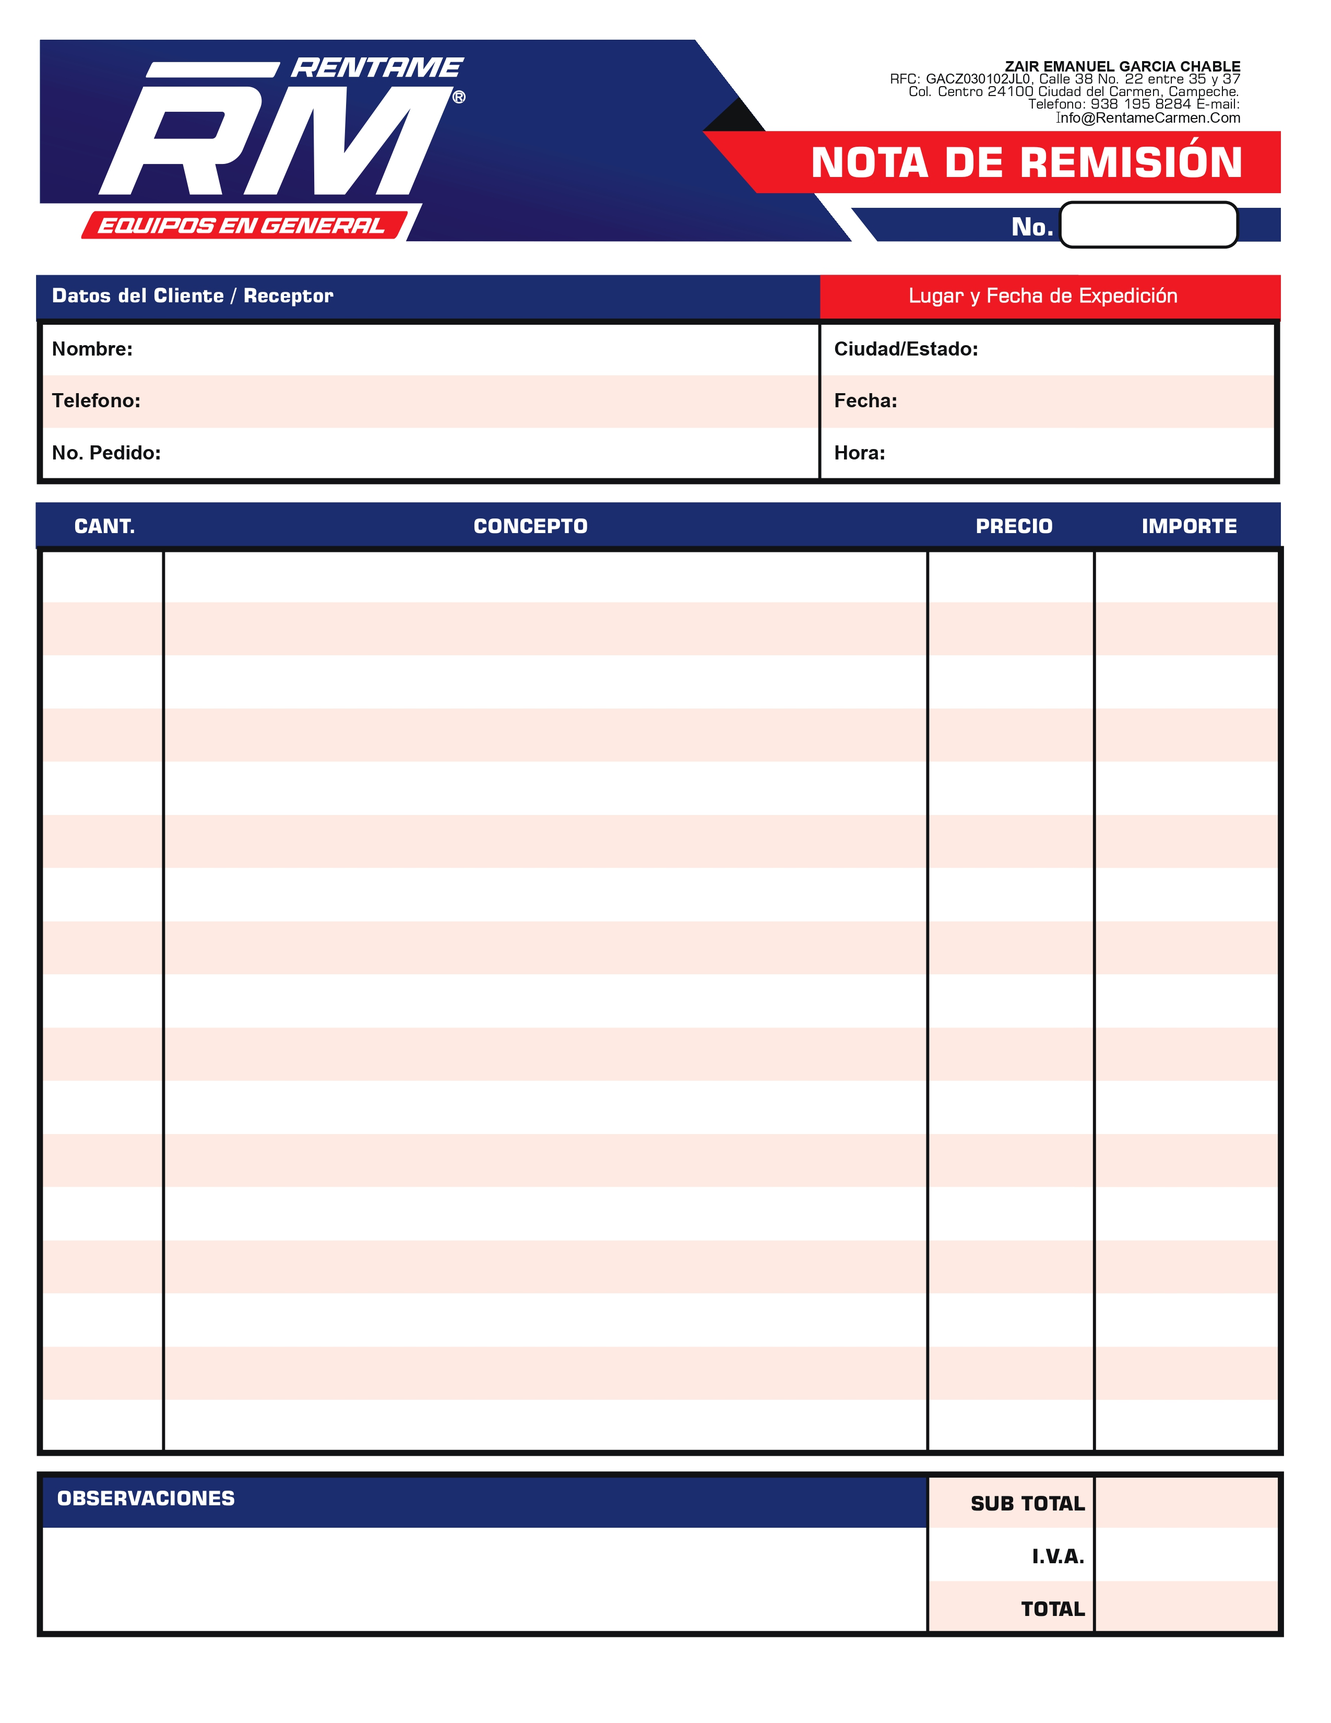
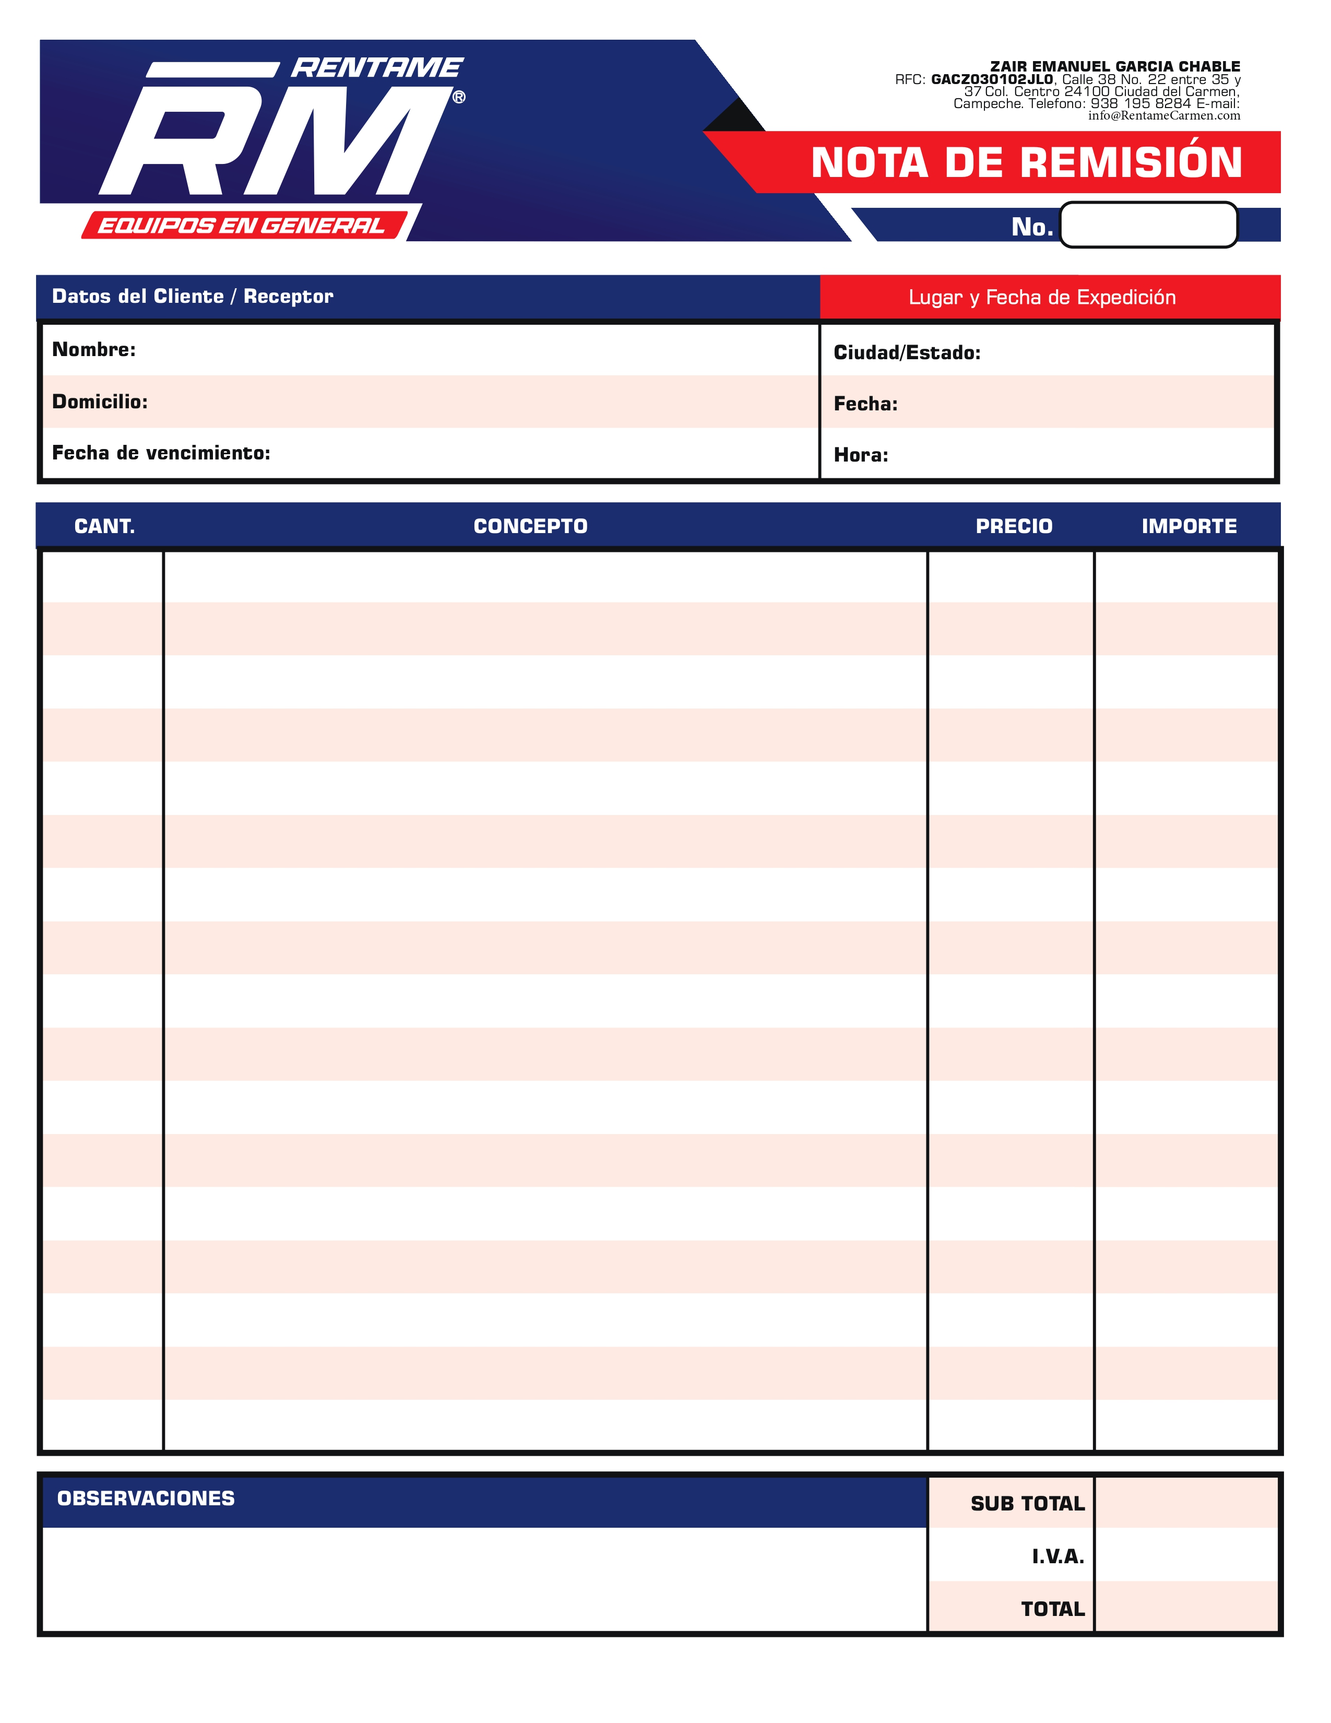
sad

diff --git a/src/pages/rentas/create_rentas.jsx b/src/pages/rentas/create_rentas.jsx
@@ -28,7 +28,8 @@ const [selectedProducts, setSelectedProducts] = useState([]); //se almacenan los
 const [searchTerm, setSearchTerm] = useState(''); //Se almacenan los terminos de busqueda
 const [loading, setLoading] = useState(true); //estado para spinner de carga
 const [files, setFiles]=useState([])
-const [identificador, setIdentificador]=useState()
+const [folio, setFolio]=useState()
+console.log(folio);
 const [hora_renta, setHora_renta]=useState()
 const [hora_vencimiento, setHora_vencimiento]=useState()
 const [fecha_renta, setFecha_renta]=useState(new Date())
@@ -214,21 +215,7 @@ const handleRemoveImage = (id, index) => {
   setFiles((prevFiles) => prevFiles.filter((_, idx) => idx !== index));
 };
 
-function generarIdentificador() {
-  // Genera una cadena aleatoria de 11 números entre 1 y 9
-  let identificador = '';
-  for (let i = 0; i < 11; i++) {
-    identificador += Math.floor(Math.random() * 9) + 1; // Genera números entre 1 y 9
-  }
 
-  // Configura el identificador con el prefijo "R-"
-  const identificadorCompleto = `R-${identificador}`;
-  setIdentificador(identificadorCompleto);
-}
-
-useEffect(() => {
-generarIdentificador()
-}, []);
 
 
 async function create_clientes() {
@@ -260,6 +247,24 @@ async function create_clientes() {
     setInfo_registro('error')
   }
 }
+async function obtenerNuevoFolio() {
+  try {
+    
+    setFolio(nuevoFolio);
+    } catch (error) {
+    console.log(error);
+  }
+}
+async function folioactual() {
+  
+  try {
+    
+   await obtenerNuevoFolio();
+
+  } catch (error) {
+    console.log(error);
+  }
+}
 
 //FUNCION PARA CREAR UNA RENTA
 async function generar_rentas() {
@@ -270,10 +275,15 @@ async function generar_rentas() {
     }
   });
 
-  if (!cliente_Selected || !localStorage.getItem('usuario') || !localStorage.getItem('nombre')) {
+  if (!cliente_Selected || !localStorage.getItem('usuario') || !localStorage.getItem('nombre') || !hora_renta || !hora_vencimiento) {
     return notyf.error('Datos incompletos, llene todos los campos excepto los que dicen opcional.');
   }
-
+  const response = await axios.get(`https://backrecordatoriorenta-production.up.railway.app/api/rentas/`);
+    const permisosData = response.data.response
+    const ultimoPermiso = permisosData[permisosData.length - 1];
+    const ultimoFolio = ultimoPermiso.folio;
+    const numeroUltimoFolio = parseInt(ultimoFolio);
+    const nuevoFolio = (numeroUltimoFolio + 1).toString().padStart(7, '0');
   // Subida de imágenes
   let fotosEstadoInicial = [];
   const selectedFiles = files; // Obtenemos todos los archivos seleccionados
@@ -282,6 +292,7 @@ async function generar_rentas() {
     const file = selectedFiles[i].file;
     
     try {
+      
       // Subir cada imagen y obtener la URL de Firebase
       const fotoURL = await uploadFoto(file);  // Asumiendo que uploadFoto devuelve la URL accesible
       fotosEstadoInicial.push(fotoURL);  // Guardar la URL en el array
@@ -296,13 +307,12 @@ async function generar_rentas() {
       nombre: product.nombre, // Nombre del producto
       cantidad: product.cantidad,
       codigo: product.codigo,
-      precio_unitario: product.precio, // Precio por unidad
-      precio_total_cantidad: (product.precio * product.cantidad).toFixed(2), // Precio total según cantidad
+      precio_unitario: product.precio.toLocaleString("en-US", { minimumFractionDigits: 2, maximumFractionDigits: 2 }), // Precio por unidad
       _id: product._id
     })),
     importe_total: selectedProducts
-      .reduce((total, product) => (total + product.precio * product.cantidad) * dias_contados, 0)
-      .toFixed(2), // Importe total de todos los productos seleccionados
+    .reduce((total, product) => total + (product.precio * product.cantidad * dias_contados), 0) // Agrega 0 como valor inicial
+    .toLocaleString("en-US", { minimumFractionDigits: 2, maximumFractionDigits: 2 }), // Importe total de todos los productos seleccionados
     fotos_estado_inicial: fotosEstadoInicial, // Las URLs de las fotos subidas
     usuario_retandor: localStorage.getItem('usuario'), // Usuario que está realizando la renta
     nombre_encargado:localStorage.getItem('nombre'),
@@ -311,10 +321,11 @@ async function generar_rentas() {
     hora_vencimiento: hora_vencimiento,
     observacion_inicial: detalle,
     cliente:cliente_Selected,
-    identificador: identificador,
+    folio: nuevoFolio,
     fecha_vencimiento: vencimientoFormateado,
     detalles_maquinaria: selectedProducts?.map((product) => product.descripcion || ''),
-    direccion:direccion
+    direccion:direccion,
+    dias_contados:dias_contados
   };
 
   try {
@@ -333,7 +344,7 @@ async function generar_rentas() {
     Swal.fire({
       icon: 'success',
       title: 'Renta generada',
-      text: `El N° identificador para tu renta es ${identificador}, con este numero podrás identificar tus rentas en la sección historial de rentas.`,
+      text: `Para ver la renta generada ve a la seccion de historial de rentas.`,
       confirmButtonText: 'Aceptar',
       allowOutsideClick: false, // Evita que se cierre al hacer clic fuera
       allowEscapeKey: false, // Evita que se cierre al presionar la tecla Escape
@@ -350,7 +361,7 @@ async function generar_rentas() {
 return (
   <>
     <Navbar/>
-      <div className="w-full h-[90vh] flex">
+      <div className="w-full  lg:h-[90vh] flex">
         <div className="w-full flex lg:flex-row flex-col-reverse justify-center items-center bg-[#EBEBEB] relative h-full">
           <div className="lg:w-[50%] w-full  items-center py-[1rem] overflow-y-auto h-full bg-[white] flex flex-col px-[1rem] gap-4">
             <p className="text-[1.2rem] font-semibold">Pedido de renta en curso</p>
@@ -392,7 +403,9 @@ return (
             Importe total por {dias_contados} días: 
           </td>
           <td style={{ border: '1px solid #ccc', padding: '8px' }}>
-            ${selectedProducts.reduce((total, product) => (total + (product.precio * product.cantidad) * dias_contados), 0).toFixed(2)}
+          ${selectedProducts
+  .reduce((total, product) => total + (product.precio * product.cantidad * dias_contados), 0) // Agrega 0 como valor inicial
+  .toLocaleString("en-US", { minimumFractionDigits: 2, maximumFractionDigits: 2 })}
           </td>
         </tr>
                 )}
@@ -443,7 +456,7 @@ return (
           </div>
           <div class="mb-3">
             <label  for="exampleInputPassword1" class="form-label font-bold">Hora de la renta</label>
-            <input  placeholder='HORA:MINUTOS' type="text" class="form-control" id="exampleInputPassword1"/>
+            <input ref={input_hora_renta} onChange={captureHora_renta}  placeholder='HORA:MINUTOS' type="text" class="form-control" id="exampleInputPassword1"/>
          </div>
           <div class="mb-3 flex flex-col">
             <label  for="exampleInputPassword1" class="form-label font-bold">Fecha de vencimiento:</label>
@@ -451,7 +464,7 @@ return (
           </div>
           <div class="mb-3">
             <label  for="exampleInputPassword1" class="form-label font-bold">Hora de vencimiento</label>
-            <input  placeholder='HORA:MINUTOS' type="text" class="form-control" id="exampleInputPassword1"/>
+            <input ref={input_hora_vencimiento} onChange={captureHora_vencimiento} placeholder='HORA:MINUTOS' type="text" class="form-control" id="exampleInputPassword1"/>
          </div>
         <div class="mb-3">
           <label  for="exampleInputPassword1" class="form-label font-bold">Dirección de uso: (Donde ser usarán los equipos) *obligatorio</label>
@@ -509,7 +522,7 @@ return (
             </div>
             <div class="mb-3">
               <label  for="exampleInputPassword1" class="form-label font-bold">Hora de la renta</label>
-              <input  placeholder='HORA:MINUTOS' type="text" class="form-control" id="exampleInputPassword1"/>
+              <input ref={input_hora_renta} onChange={captureHora_renta}  placeholder='HORA:MINUTOS' type="text" class="form-control" id="exampleInputPassword1"/>
             </div>
             <div class="mb-3 flex flex-col">
               <label  for="exampleInputPassword1" class="form-label font-bold">Fecha de vencimiento:</label>
@@ -517,7 +530,7 @@ return (
             </div>
             <div class="mb-3">
               <label  for="exampleInputPassword1" class="form-label font-bold">Hora de vencimiento</label>
-              <input  placeholder='HORA:MINUTOS' type="text" class="form-control" id="exampleInputPassword1"/>
+              <input ref={input_hora_vencimiento} onChange={captureHora_vencimiento} placeholder='HORA:MINUTOS' type="text" class="form-control" id="exampleInputPassword1"/>
             </div>
             <div class="mb-3">
               <label  for="exampleInputPassword1" class="form-label font-bold">Dirección de uso: (Donde ser usarán los equipos) *obligatorio</label>
@@ -549,7 +562,7 @@ return (
         </div>
         )}
         </div>
-          <div className="lg:w-[50%] w-full  flex flex-col gap-3 h-full bg-[#3B5A75] px-[1rem] py-[1rem]">
+          <div className="lg:w-[50%] w-full flex flex-col gap-3 h-full bg-[#3B5A75] px-[1rem] py-[1rem]">
             <p className="text-white text-[1.2rem] font-semibold">Selecciona los productos a rentar</p>
             <div className="flex w-full">
               <div className="relative w-full items-center">
@@ -571,22 +584,22 @@ return (
                 </div>
               </div>
             )}
-            <div className="flex flex-col gap-2 w-full overflow-y-auto max-h-[75vh]">
+            <div className="flex flex-col gap-2 w-full overflow-y-auto  max-h-[75vh]">
             {filteredDatas.map((dat) => (
-              <div className="w-full bg-[white] rounded-[10px] flex justify-between items-center px-[1rem] h-auto py-[0.5rem]"key={dat.codigo}>
-                <div className="flex gap-4 items-center">
+              <div className="w-full bg-[white] rounded-[10px] gap-3  flex justify-between items-center px-[1rem] lg:h-auto py-[0.5rem]"key={dat.codigo}>
+                <div className="flex gap-4 items-center  overflow-x-auto">
                 {dat.foto && <img className="w-[3rem] h-[3rem]" src={dat.foto} alt={dat.nombre} />}
                 <p>{dat.nombre}</p>
               </div>
                 {dat.stock > 0 ? ( selectedProducts.some((p) => p.codigo === dat.codigo) ? (
                 <div className="flex gap-2">
-            <button className="bg-primary rounded-[5px] text-white font-semibold px-[0.5rem]" onClick={() => handleQuantityChange(dat.codigo, -1)}>-</button>
-              <span className="mx-2">
+            <button className="bg-primary rounded-[5px] lg:flex hidden text-white font-semibold px-[0.5rem]" onClick={() => handleQuantityChange(dat.codigo, -1)}>-</button>
+              <span className="mx-2 lg:flex hidden">
                 {selectedProducts.find((p) => p.codigo === dat.codigo)?.cantidad}
               </span>
-              <button className={`bg-primary rounded-[5px] text-white font-semibold px-[0.5rem] ${selectedProducts.find((p) => p.codigo === dat.codigo)?.cantidad >= dat.stock ? 'cursor-not-allowed opacity-50' : ''}`} onClick={() => handleQuantityChange(dat.codigo, 1)} disabled={selectedProducts.find((p) => p.codigo === dat.codigo)?.cantidad >= dat.stock}>+</button>
+              <button className={`bg-primary rounded-[5px] lg:flex hidden text-white font-semibold px-[0.5rem] ${selectedProducts.find((p) => p.codigo === dat.codigo)?.cantidad >= dat.stock ? 'cursor-not-allowed opacity-50' : ''}`} onClick={() => handleQuantityChange(dat.codigo, 1)} disabled={selectedProducts.find((p) => p.codigo === dat.codigo)?.cantidad >= dat.stock}>+</button>
               <button className="rounded-[5px] text-white font-semibold px-[0.5rem]" onClick={() => handleRemoveProduct(dat.codigo)}>
-                <img className="w-[1rem]" src={trash} alt="" />
+                <img className="w-[2.5rem] lg:w-[1rem]" src={trash} alt="" />
               </button>
               </div>
             ) : (

diff --git a/src/pages/PDF/contrato.jsx b/src/pages/PDF/contrato.jsx
@@ -189,8 +189,14 @@ box_products:{
         telefono:{
           position:'absolute',
           fontSize:9,
-          top:173,
-          left:67
+          top:174,
+          left:69
+        },
+        vencimiento:{
+          position:'absolute',
+          fontSize:9,
+          top:197.5,
+          left:124
         },
         estado:{
           position:'absolute',
@@ -225,6 +231,15 @@ box_products:{
           top:750,
           left:20,
           
+        },
+        folio:{
+          position:'absolute',
+          fontSize:10,
+          top:95,
+          left:492,
+          fontFamily:'Helvetica-Bold',
+          color:'red'
+          
         }
 });
 
@@ -249,8 +264,8 @@ return (
     <View style={styles.page}>
         <Image style={styles.plantilla} src={{ uri:`${page0}` , method: 'GET'}}/>
         <Text style={styles.nombre}>{dat.cliente.nombre}</Text>
-        <Text style={styles.estado}>C. del carmen/CAMPECHE</Text>
-        <Text style={styles.fecha}>{fecha_renta}</Text>
+        <Text style={styles.estado}>Cd. Del carmen CAMPECHE</Text>
+        <Text style={styles.fecha}>{dat.fecha_renta}</Text>
         <Text style={styles.hora}>{dat.hora_renta}</Text>
         <Text style={styles.total}>${dat.importe_total}</Text>
         <View style={styles.observacion}>
@@ -269,13 +284,35 @@ return (
               <Text>${dat2.precio_unitario}</Text>
             </View>
             <View style={styles.box_4}>
-              <Text>${dat2.precio_total_cantidad}</Text>
+              <Text>${Number(dat2.precio_unitario * dat.dias_contados).toLocaleString("en-US", { minimumFractionDigits: 2, maximumFractionDigits: 2 })}</Text>
             </View>
             
           </View>
         ))}
+        <View style={styles.box_datas}>
+            <View style={styles.box_1}>
+              <Text ></Text>
+            </View>
+            <View style={styles.box_2}>
+              {dat.dias_contados === '1' && (
+                <Text>Renta por {dat.dias_contados} día</Text>
+              )}
+              {dat.dias_contados != '1' && (
+                <Text>Renta por {dat.dias_contados} días</Text>
+              )}
+            </View>
+            <View style={styles.box_3}>
+              <Text></Text>
+            </View>
+            <View style={styles.box_4}>
+              <Text></Text>
+            </View>
+            
+          </View>
           </View>
           <Text style={styles.telefono}>{dat.cliente.telefono}</Text>
+          <Text style={styles.vencimiento}>{dat.fecha_vencimiento}</Text>
+          <Text style={styles.folio}>{dat.folio}</Text>
           <Text style={styles.encargado}>Personal que atendió: {dat.nombre_encargado}</Text>
     </View>
 </Page>
@@ -302,7 +339,9 @@ return (
             <View style={styles.page}>
                 <Image style={styles.plantilla} src={{ uri:`${page3}` , method: 'GET'}}/>
                 <View style={styles.box}>
-                    <Text style={styles.detalles}>{dat.detalles_maquinaria}</Text>
+                    {dat.detalles_maquinaria.map(dat3=>(
+                      <Text style={styles.detalles}>{dat3}</Text>
+                    ))}
                 </View>
             </View>
         </Page>

diff --git a/src/components/modal_detalle.jsx b/src/components/modal_detalle.jsx
@@ -89,7 +89,7 @@ export default function ModalDetalle({ closeModal, _id }) {
                 <div className="flex flex-col text-[0.9rem] pt-[1rem]" key={dat.identificador}>
                   <div className='flex gap-2'>
                   <p className='font-bold'>Folio:</p>
-                  <p>{dat.identificador}</p>
+                  <p>{dat.folio}</p>
                   </div>
                   <div className='flex gap-2'>
                   <p className='font-bold'>Arrendatario:</p>
@@ -142,7 +142,8 @@ export default function ModalDetalle({ closeModal, _id }) {
           <td style={{ border: '1px solid #ccc', padding: '8px' }}>{producto.codigo}</td>
           <td style={{ border: '1px solid #ccc', padding: '8px' }}>{producto.cantidad}</td>
           <td style={{ border: '1px solid #ccc', padding: '8px' }}>${producto.precio_unitario}</td>
-          <td style={{ border: '1px solid #ccc', padding: '8px' }}>${producto.precio_total_cantidad}</td>
+          <td style={{ border: '1px solid #ccc', padding: '8px' }}>${(producto.precio_unitario * dat.dias_contados).toLocaleString("en-US", { minimumFractionDigits: 2, maximumFractionDigits: 2 })}
+          </td>
         </tr>
       ))}
       <tr>
@@ -154,7 +155,7 @@ export default function ModalDetalle({ closeModal, _id }) {
     </tbody>
   </table>
 </div>
-        <p className="font-bold underline">Imágenes del estado inicial del producto (Como lo recibe el cliente)</p>
+        <p className="font-bold underline">Fotos como se entregó el producto:</p>
                   <div className="flex w-full gap-2 py-[1rem]">
                   {dat?.fotos_estado_inicial?.map((foto, index) => (
           <div
@@ -187,7 +188,7 @@ export default function ModalDetalle({ closeModal, _id }) {
                   <p>{dat.fecha_devolucion} {dat.hora_devolucion}</p>
                   </div>
                       
-                      <p className="font-bold underline">Pruebas de devolución (Como recibe el responsable los equipos devueltos por el cliente)</p>
+                      <p className="font-bold underline">Fotos como el cliente devolvió los equipos:</p>
                       <div className="flex w-full gap-2 py-[1rem]">
                   {dat?.fotos_estado_inicial?.map((foto, index) => (
           <div

diff --git a/src/pages/rentas/historial_rentas.jsx b/src/pages/rentas/historial_rentas.jsx
@@ -161,8 +161,8 @@ function closeModal_recibido(){
     <tr className="bg-[#9B8767] text-white text-center">
       <th className="px-2 py-1 whitespace-nowrap">Celular del arrendador</th>
       <th className="px-2 py-1  whitespace-nowrap">Encargado</th>
-      <th className="px-2 py-1  whitespace-nowrap">Fecha de alta</th>
-      <th className="px-2 py-1  whitespace-nowrap">Vencimiento</th>
+      <th className="px-2 py-1  whitespace-nowrap">Fecha de arriendo</th>
+      <th className="px-2 py-1  whitespace-nowrap">Fecha de Vencimiento</th>
       <th className="px-2 py-1  whitespace-nowrap">Importe</th>
       <th className="px-2 py-1  whitespace-nowrap">Estado</th>
       <th className="px-2 py-1  whitespace-nowrap">Recibir/Detalles/Eliminar</th>
@@ -173,7 +173,7 @@ function closeModal_recibido(){
       <tr key={dat._id} className="text-center  ">
         <td className="px-2 py-1 border-[1px]  whitespace-nowrap border-solid border-[black]">{dat.cliente.telefono}</td>
         <td className="px-2 py-1 border-[1px]  whitespace-nowrap border-solid border-[black]">{dat.usuario_retandor}</td>
-        <td className="px-2 py-1 border-[1px]  whitespace-nowrap border-solid border-[black]">{dat.fecha_renta} {dat.hora_renta}</td>
+        <td className="px-2 py-1 border-[1px]  whitespace-nowrap border-solid border-[black]">{dat.fecha_renta}</td>
         <td className="px-2 py-1 border-[1px]  whitespace-nowrap border-solid border-[black]">{dat.fecha_vencimiento}</td>
         <td className="px-2 py-1 border-[1px] whitespace-nowrap border-solid border-[black]">${dat.importe_total}</td>
         <td className="px-2 py-2 border-[1px] whitespace-nowrap border-solid border-[black] flex justify-center text-center">

diff --git a/src/components/navbar.jsx b/src/components/navbar.jsx
@@ -124,7 +124,7 @@ useEffect(() => {
       <Menu closeMenu={closeMenu}/>
     )}
     {datas.map(dat=>(
-      <div className='w-full h-[10vh] bg-[#f59600] flex justify-between px-[1rem]  lg:gap-5 items-center text-white font-semibold relative'>
+      <div className='w-full h-[12vh] lg:h-[10vh] bg-[#f59600] flex justify-between px-[1rem]  lg:gap-5 items-center text-white font-semibold relative'>
         <button onClick={openMenu}>
         <svg class="lg:w-10 lg:h-10 w-7 h-7 text-white" aria-hidden="true" xmlns="http://www.w3.org/2000/svg" width="24" height="24" fill="none" viewBox="0 0 24 24">
   <path stroke="currentColor" stroke-linecap="round" stroke-width="2" d="M5 7h14M5 12h14M5 17h14"/>
